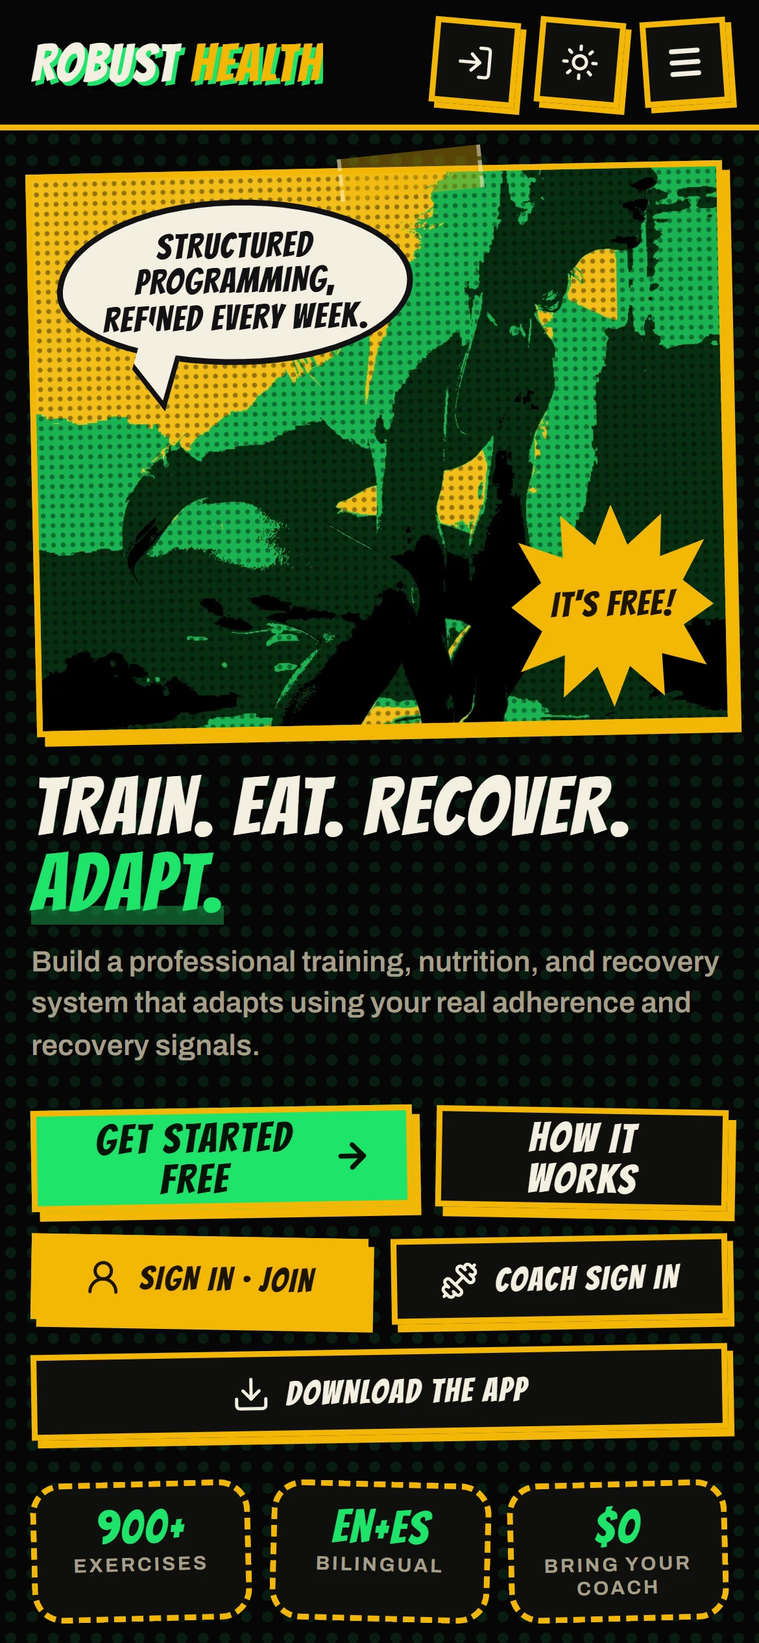
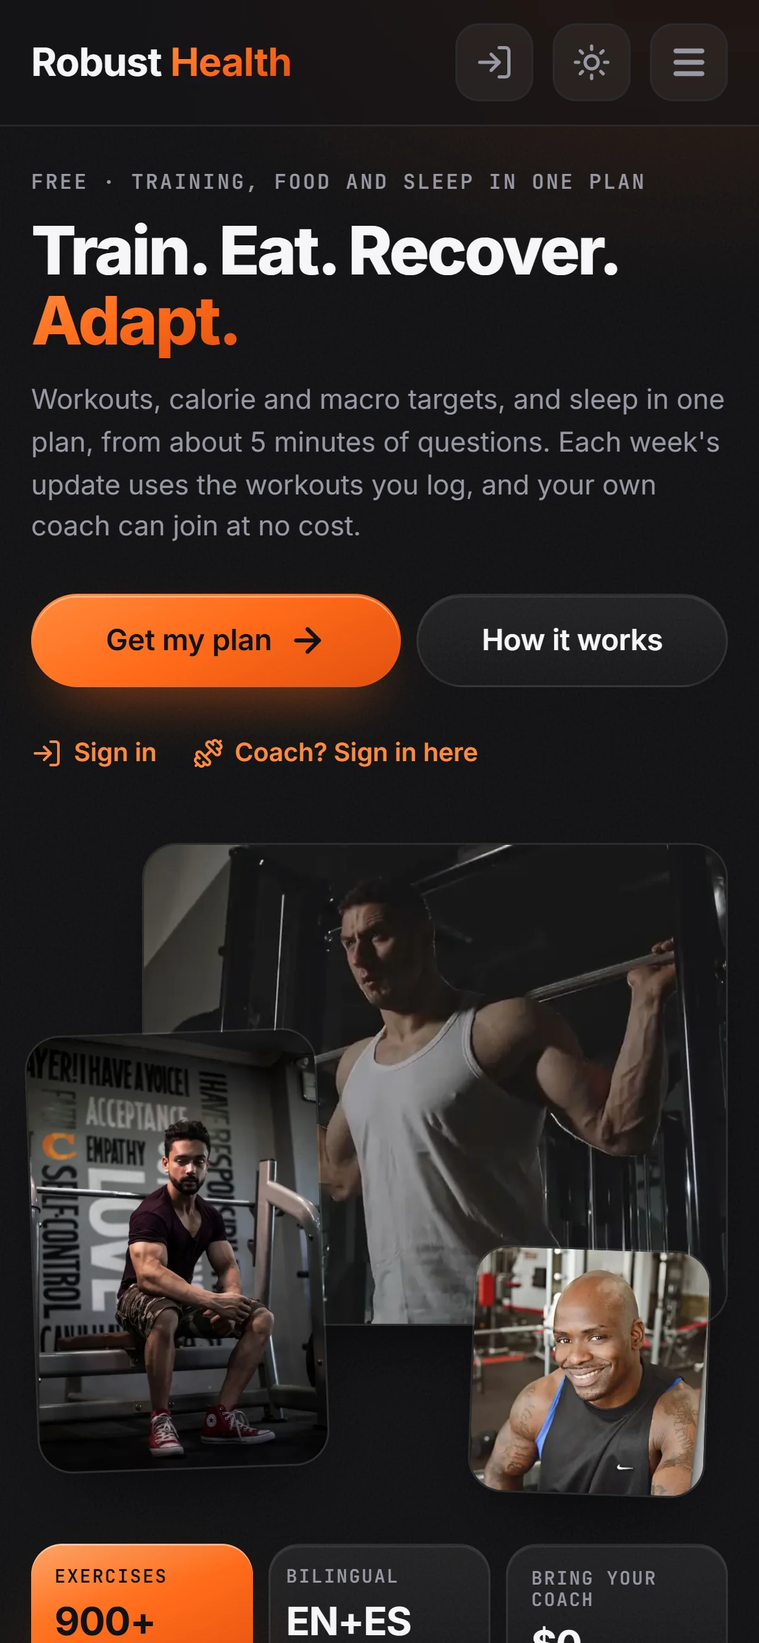
Retake Robust Health's captures after its redesign
The app moved from the comic yellow-and-green skin to dark glass with an
orange accent, so every Robust Health image showed a design that is gone.
All sixteen are retaken from app.robusthealth.in on 2026-11-03, signed
out, at 1440x900 2x (phones at 390 3x for the hero, 360 2x for the pair),
WebP q90 with no metadata.

Kept where the content maps one to one: hero, mobile, the quick-start
cover, onboarding, start, intake. The Index frames now walk the landing
page's second screen, How It Works, onboarding, its first questions
(nothing typed), a quick-start plan and the Spanish landing page.

The account screens (member dashboard, a coach's client plan, the week
one/two table, two Android screens) are replaced by signed-out product
views: the quick-start plan carries targets, days, sets and RPE without
an account, and the sign-in page shows the providers the engineering
section names. The local app's environment points at the production
database, so seed logins were not used. Alt text, labels and captions
describe the new frames; the pair explanations say where the example
values come from.

CLAUDE.md records the round and one capture rule: use a guest browser,
since a headless Edge profile here filled the sign-in form with saved
credentials.

diff --git a/lib/content.ts b/lib/content.ts
@@ -276,69 +276,70 @@ export const content: SiteContent = {
         src: "/media/robust-health-hero.webp",
         width: 2880,
         height: 1800,
-        alt: "Robust Health's landing page, set like a comic: “Train. Eat. Recover. Adapt.” in heavy italic capitals, buttons to get started, see how it works and sign in as a member or as a coach, three counters, and a halftone photograph of an athlete under a speech bubble reading “Structured programming, refined every week.”",
+        alt: "Robust Health's landing page: “Train. Eat. Recover. Adapt.” in large white type, Adapt in orange, over a dimmed photograph of a woman training; a line on workouts, calorie and macro targets and sleep from about five minutes of questions; Get my plan and How it works buttons and sign-in links for members and coaches; and a row of glass panels — workouts, food targets, sleep goal, changes weekly, and 900+ exercises, EN+ES and $0 to bring your coach.",
       },
       heroMobile: {
         src: "/media/robust-health-mobile.webp",
         width: 1170,
         height: 2532,
-        alt: "Robust Health on a phone: the halftone photograph and its speech bubble first, then “Train. Eat. Recover. Adapt.”, buttons to get started, see how it works, sign in, sign in as a coach and download the app, and three counters.",
+        alt: "Robust Health on a phone: “Train. Eat. Recover. Adapt.”, the line on workouts, targets and sleep, Get my plan and How it works buttons, sign-in links for members and coaches, three overlapping gym photographs, and the first counters — 900+ exercises and EN+ES.",
       },
       // The product, not the landing page: the Index shows the app rather
       // than its marketing photography. The quick-start catalogue, signed
-      // out, on 2026-10-21; the age, height and weight are the page's own
-      // defaults. It replaced a dashboard capture from the earlier design.
+      // out, on 2026-11-03; the age, height and weight are the page's own
+      // defaults.
       cover: {
         src: "/media/robust-health-live-programmes.webp",
         width: 2880,
         height: 1800,
-        alt: "Robust Health's quick start, “Train like a legend, starting today”: a Your numbers panel of sex, age, height, weight and activity with a maintenance estimate of about 2,551 kcal a day from the Mifflin-St Jeor equation, a search box, filters for training days and experience, and the first programme cards — Krissy Cela Glute Days, German Volume Training and DoggCrapp Training.",
+        alt: "Robust Health's quick start, “Start from a known programme”: 23 published programmes, a Your numbers panel of sex, age, height, weight and activity with a maintenance estimate of about 2,551 kcal a day from the Mifflin-St Jeor equation, a search box, filters for training days and experience, and the first programme cards — Krissy Cela Glute Days, German Volume Training and DoggCrapp Training.",
       },
-      // Taken from the live site on 2026-10-21, signed out: the How It Works
-      // page walks the weekly loop through the product's own panels, then
-      // onboarding's first screen. The account screens are in the case study.
+      // Taken from the live site on 2026-11-03, signed out, after the
+      // redesign: the landing page's second screen, How It Works, onboarding
+      // and its first questions (nothing typed), a quick-start plan, and the
+      // landing page in Spanish. The account screens are not shown.
       captures: [
         {
-          src: "/media/robust-health-live-plans.webp",
+          src: "/media/robust-health-live-inside.webp",
           width: 2880,
           height: 1800,
-          label: "Four ways in",
-          alt: "From the How It Works page: “Your plan gets written. Four ways in.” beside a panel of the four — written by a coach, imported from a document, generated then edited, started from a known split — with the loop's six steps down the left, Intake to Adjust, at Build.",
+          label: "What's inside",
+          alt: "The landing page's second screen, “For lifters, powerlifters and their coaches.”: three photographs, each under a panel from the product — week four's upper-body day, a back squat set logged at RPE 7.5, a coach's board of twelve clients — then four notes: plates from your kitchen and budget, sets logged with no signal, next week built from your logs, English and Spanish.",
         },
         {
-          src: "/media/robust-health-live-week.webp",
+          src: "/media/robust-health-live-how.webp",
           width: 2880,
           height: 1800,
-          label: "The week",
-          alt: "“Monday already knows what it is for”: a week of upper-body, lower-body and rest days, each with its exercise count and length, above calorie, protein and sleep targets.",
-        },
-        {
-          src: "/media/robust-health-live-session.webp",
-          width: 2880,
-          height: 1800,
-          label: "The session",
-          alt: "“Log it while you are still holding the bar”: today's upper-body session at three of six, bench press and barbell rows ticked off and the overhead press's rest timer running.",
-        },
-        {
-          src: "/media/robust-health-live-coach.webp",
-          width: 2880,
-          height: 1800,
-          label: "The coach's view",
-          alt: "“Your coach sees the week you actually had”: a coach's board of twelve clients, a bar chart of body weight, sessions and calories, and one week's sessions, last log and energy check-in.",
-        },
-        {
-          src: "/media/robust-health-live-next.webp",
-          width: 2880,
-          height: 1800,
-          label: "Next week",
-          alt: "“Next week is a reply to this one”: a notice that week five is ready, the press going up 2.5 kg after a good week, above tabs for weeks five back to two.",
+          label: "How it works",
+          alt: "The How It Works page, “A few answers in, a plan that keeps up.”, in three steps: an intake of goal and training days; this week's upper-body session beside 2,140 kcal, 160 g of protein and an eight-hour sleep target; and a notice that week five is ready, the press up 2.5 kg and Thursday a rest day. Below, a line for members training with a coach.",
         },
         {
           src: "/media/robust-health-live-onboarding.webp",
           width: 2880,
           height: 1800,
           label: "Getting started",
-          alt: "Onboarding: “Build a plan that fits your real life” beside a halftone gym photograph, then two ways to start — a personalised plan, recommended, in about three to five minutes, or a quick start from proven programmes.",
+          alt: "Onboarding: “Your plan, built around your week” beside two ways to start — personalised, recommended, in about three to five minutes, or a quick start from a published programme, ready right away.",
+        },
+        {
+          src: "/media/robust-health-live-questions.webp",
+          width: 2880,
+          height: 1800,
+          label: "The questions",
+          alt: "The personalised questionnaire's first step, body stats: empty name fields, age, sex, height and weight at the page's defaults, a BMI reading, and optional body fat and body type — between the four steps on the left and a running summary on the right of about 2,051 kcal a day, an upper/lower split four days a week and a full gym.",
+        },
+        {
+          src: "/media/robust-health-live-plan.webp",
+          width: 2880,
+          height: 1800,
+          label: "A quick-start plan",
+          alt: "A quick-start preview of German Volume Training: six days a week, about 72 minutes a session, 3,187 kcal and 165 g of protein a day, and a note that with no details entered the calorie, macro and water numbers are for a reference adult of 75 kg, 175 cm and 24 years, above the top of the daily targets and the week's workouts.",
+        },
+        {
+          src: "/media/robust-health-live-spanish.webp",
+          width: 2880,
+          height: 1800,
+          label: "In Spanish",
+          alt: "The landing page in Spanish: “Entrena. Come. Recupérate. Adáptate.”, with the same buttons, panels and counters.",
         },
       ],
       caseStudy: {
@@ -352,11 +353,11 @@ export const content: SiteContent = {
             media: {
               kind: "image",
               src: "/media/robust-health-start.webp",
-              width: 1639,
-              height: 1105,
-              alt: "Robust Health's onboarding over a blurred gym photograph: the headline Build a plan that fits your real life, then a panel asking How would you like to get started? with two cards — Personalised plan, recommended, about three to five minutes, and Quick start, to browse programmes.",
+              width: 2460,
+              height: 970,
+              alt: "Robust Health's onboarding over a dimmed gym photograph: “Your plan, built around your week” and a line on three to five minutes of questions, beside a panel asking How do you want to start? with two choices — Personalised, recommended, about three to five minutes, and Quick start, ready right away.",
               caption:
-                "Two ways in: a three-to-five minute questionnaire that generates a tailored first week, or a ready-made programme with optional body details for nutrition targets. Switching between them keeps whatever has already been entered.",
+                "Two ways in: three to five minutes of questions that build a first week around the member's goal, days, gear and injuries, or a published programme to browse now, with optional body details for calorie targets. Switching between them keeps whatever has already been typed.",
             },
           },
           {
@@ -367,21 +368,23 @@ export const content: SiteContent = {
             media: {
               kind: "pair",
               title: "What it asks, and what changed",
-              body: "The intake asks for a goal, the days a member can train and the constraints around them: equipment, diet, an injury. Week two is then laid against week one, line by line. Here the macros held, the split moved to an imported programme, and a sixth training day was added.",
+              // Both panels are from the How It Works page, which walks the
+              // loop with example values rather than a member's own.
+              body: "The intake asks for a goal and the days a member can train, then the gear, the food and any injury around them. Once a week is logged, the weekly update writes the next one and says what moved. The How It Works page walks it through: the press goes up 2.5 kg, and Thursday becomes a rest day.",
               images: [
                 {
                   src: "/media/robust-health-intake.webp",
-                  width: 568,
-                  height: 442,
+                  width: 724,
+                  height: 462,
                   label: "The intake",
-                  alt: "An intake card: Build strength selected from three goals, three training days selected from two to five, and three constraint chips — Full gym, No dairy, Left shoulder.",
+                  alt: "An intake panel: What are you training for? with Build strength selected over Lose fat and General fitness, and Days you can train with three selected from two to five.",
                 },
                 {
-                  src: "/media/robust-health-weeks.webp",
-                  width: 792,
-                  height: 668,
-                  label: "Week one against week two",
-                  alt: "A table of week one against week two: calories, protein, carbs and fat unchanged at 2851 kcal, 155 g, 416 g and 63 g; the training split changed from Push, Pull, Legs to an imported programme; days per week up from five to six; the sleep target unchanged at seven hours.",
+                  src: "/media/robust-health-week-five.webp",
+                  width: 728,
+                  height: 466,
+                  label: "The weekly update",
+                  alt: "A Week five panel: a notice that week five is ready, built from last week's logs — the press up 2.5 kg and Thursday a rest day — above tabs for weeks five back to two.",
                 },
               ],
             },
@@ -398,12 +401,14 @@ export const content: SiteContent = {
             ],
             media: {
               kind: "image",
-              src: "/media/robust-health-member.webp",
-              width: 1612,
-              height: 690,
-              alt: "Robust Health's member dashboard greeting Good morning, Gogol above two wide cards: an RPE-autoregulated powerlifting block with an Open your block button, and a standalone one-day plan with an Access your plan button.",
+              // A quick-start plan, signed out: the body details are the
+              // page's defaults, not a member's.
+              src: "/media/robust-health-plan-week.webp",
+              width: 2880,
+              height: 1644,
+              alt: "Further down a quick-start plan for German Volume Training: daily targets of 3,187 kcal, 165 g protein, 463 g carbs and 75 g fat against a 2,551 kcal TDEE, 3.6 litres of water and a meal timeline, beside the workouts — day one chest and back, day two legs and abs, each with its warm-up and exercises at ten sets of ten, 90 seconds' rest and RPE 8.",
               caption:
-                "Inside a member's account: the powerlifting block, where the RPE of every set is logged as it is lifted and the next load is recalculated from it, and a standalone one-day plan saved beside it.",
+                "A published programme as data: each day's warm-up, then every exercise with its sets, reps, rest and target RPE, beside calorie, macro and water targets for the member's height, weight and age — a reference adult's until they are entered. A quick-start plan like this one opens without an account.",
             },
           },
           {
@@ -417,17 +422,16 @@ export const content: SiteContent = {
               "Members, trainers and admins each get their own portal and their own signed session, and the more a session can reach, the sooner it expires. Requests pass a nonce-based content security policy, per-IP rate limiting on Upstash Redis with an in-memory fallback, and double-submit CSRF checks, and authorisation is checked per route.",
               "Sign-in runs through Supabase with OAuth for Google, GitHub and Discord, plus one-time email codes sent through Resend. Web push carries reminders.",
             ],
-            // Cropped below the client's email, age, height, weight and body
-            // fat, and the signed-in trainer's name: personal details rather
-            // than evidence, and the trainer's name is someone else's.
+            // Signed out, in a browser with no saved logins: both fields show
+            // only their placeholders.
             media: {
               kind: "image",
-              src: "/media/robust-health-trainer.webp",
-              width: 1730,
-              height: 775,
-              alt: "Nutrition targets as four rings — 2851 kcal, 155 g protein, 416 g carbs, 63 g fat — above a notes panel of six points on surplus, carb timing, protein distribution and micronutrients, and a workout plan of six day chips, D1 Legs mainly to D6 Arms, from an imported programme.",
+              src: "/media/robust-health-sign-in.webp",
+              width: 2440,
+              height: 1590,
+              alt: "The member sign-in page: “Sign in to your plans” beside a panel with Sign in and New here tabs, Sign in with Google, Discord and GitHub, an email and password form with a Cloudflare human check and a Keep me signed in switch, and a link to email a code instead.",
               caption:
-                "The trainer's side of one client's active plan: calorie and macro targets, the reasoning behind them in notes, and a six-day programme imported from a file.",
+                "The member sign-in: Google, Discord or GitHub, a password, or a one-time code by email, behind a human check. Coaches sign in to their own portal from a separate page.",
             },
           },
           {
@@ -435,27 +439,26 @@ export const content: SiteContent = {
             body: [
               "Live at app.robusthealth.in. Load time is the measured part: next/image compression and route-level code splitting cut Lighthouse load time by about half on web and two thirds on mobile.",
             ],
-            // Android captures, cropped below the status bar's notification
-            // icons; the activity card is taken alone, without the programme
-            // summary above it.
+            // The same quick-start plan at 360 pixels wide, signed out; the
+            // reference body is the page's default.
             media: {
               kind: "pair",
               title: "On a phone",
-              body: "A workout runs one exercise at a time, each marked off as it is done, and a finished session joins the dashboard's recent activity with the exercises completed and the minutes it took — the record each next week is revised against.",
+              body: "On a phone the plan splits into Workout, Fuel and Recovery, one day at a time. Each exercise carries its sets, rest and target RPE and a box to tick off as it is done.",
               images: [
                 {
-                  src: "/media/robust-health-phone-workout.webp",
+                  src: "/media/robust-health-phone-plan.webp",
                   width: 720,
-                  height: 1456,
-                  label: "Mid-workout",
-                  alt: "Robust Health's workout screen on a phone: Day 4, Mobility Style, two of three exercises done, a placeholder for the exercise video, and the third exercise — hanging leg raises with cable crunches, three sets of fifteen — marked completed, above Previous and Finish Workout buttons.",
+                  height: 1600,
+                  label: "The plan",
+                  alt: "A quick-start preview of German Volume Training on a phone: six days a week, about 72 minutes, 3,187 kcal; a note that the numbers are for a reference body of 75 kg, 175 cm and 24 years; Workout, Fuel and Recovery tabs; day one, chest and back, with its three warm-up moves folded away; and a Sign in to save button.",
                 },
                 {
-                  src: "/media/robust-health-phone-activity.webp",
+                  src: "/media/robust-health-phone-day.webp",
                   width: 720,
-                  height: 1022,
-                  label: "Recent activity",
-                  alt: "The phone dashboard's Recent Activity: five sessions, each with its programme day, its date and the exercises completed, two with their length in minutes, above the app's bottom bar — Dashboard, Programme, Progress, Inbox and More.",
+                  height: 1600,
+                  label: "Day one",
+                  alt: "Day one's exercises on a phone under the Workout tab: barbell bench press and pull-ups at ten sets of ten, incline dumbbell flyes and one-arm dumbbell rows at three sets of ten to twelve, each at 90 seconds' rest and RPE 8, with a box to tick and a play button.",
                 },
               ],
             },
@@ -975,7 +978,7 @@ export const content: SiteContent = {
       destinations: { live: "Live site", source: "Repository", certificate: "Certificate" },
       captures: {
         heading: "From the live sites",
-        note: "Captured October 2026, signed out",
+        note: "Captured October and November 2026, signed out",
         count: "{count} frames",
       },
     },

diff --git a/lib/blur.ts b/lib/blur.ts
@@ -42,20 +42,20 @@ export type BlurredMedia =
   | "/media/northeastern-window.webp"
   | "/media/robust-health-hero.webp"
   | "/media/robust-health-intake.webp"
-  | "/media/robust-health-live-coach.webp"
-  | "/media/robust-health-live-next.webp"
+  | "/media/robust-health-live-how.webp"
+  | "/media/robust-health-live-inside.webp"
   | "/media/robust-health-live-onboarding.webp"
-  | "/media/robust-health-live-plans.webp"
+  | "/media/robust-health-live-plan.webp"
   | "/media/robust-health-live-programmes.webp"
-  | "/media/robust-health-live-session.webp"
-  | "/media/robust-health-live-week.webp"
-  | "/media/robust-health-member.webp"
+  | "/media/robust-health-live-questions.webp"
+  | "/media/robust-health-live-spanish.webp"
   | "/media/robust-health-mobile.webp"
-  | "/media/robust-health-phone-activity.webp"
-  | "/media/robust-health-phone-workout.webp"
+  | "/media/robust-health-phone-day.webp"
+  | "/media/robust-health-phone-plan.webp"
+  | "/media/robust-health-plan-week.webp"
+  | "/media/robust-health-sign-in.webp"
   | "/media/robust-health-start.webp"
-  | "/media/robust-health-trainer.webp"
-  | "/media/robust-health-weeks.webp";
+  | "/media/robust-health-week-five.webp";
 
 export const BLUR_PLACEHOLDERS: Readonly<Record<BlurredMedia, string>> = {
   "/media/about-smile.webp":
@@ -113,35 +113,35 @@ export const BLUR_PLACEHOLDERS: Readonly<Record<BlurredMedia, string>> = {
   "/media/northeastern-window.webp":
[1 lines of base64/hex data omitted]
   "/media/robust-health-hero.webp":
[2 lines of base64/hex data omitted]
   "/media/robust-health-intake.webp":
[1 lines of base64/hex data omitted]
-  "/media/robust-health-live-coach.webp":
[1 lines of base64/hex data omitted]
-  "/media/robust-health-live-next.webp":
[2 lines of base64/hex data omitted]
+  "/media/robust-health-live-how.webp":
[1 lines of base64/hex data omitted]
+  "/media/robust-health-live-inside.webp":
[1 lines of base64/hex data omitted]
   "/media/robust-health-live-onboarding.webp":
[1 lines of base64/hex data omitted]
-  "/media/robust-health-live-plans.webp":
[2 lines of base64/hex data omitted]
+  "/media/robust-health-live-plan.webp":
[1 lines of base64/hex data omitted]
   "/media/robust-health-live-programmes.webp":
[1 lines of base64/hex data omitted]
-  "/media/robust-health-live-session.webp":
[1 lines of base64/hex data omitted]
-  "/media/robust-health-live-week.webp":
[1 lines of base64/hex data omitted]
-  "/media/robust-health-member.webp":
[2 lines of base64/hex data omitted]
+  "/media/robust-health-live-questions.webp":
[1 lines of base64/hex data omitted]
+  "/media/robust-health-live-spanish.webp":
[1 lines of base64/hex data omitted]
   "/media/robust-health-mobile.webp":
[1 lines of base64/hex data omitted]
-  "/media/robust-health-phone-activity.webp":
[1 lines of base64/hex data omitted]
-  "/media/robust-health-phone-workout.webp":
[2 lines of base64/hex data omitted]
+  "/media/robust-health-phone-day.webp":
[1 lines of base64/hex data omitted]
+  "/media/robust-health-phone-plan.webp":
[1 lines of base64/hex data omitted]
+  "/media/robust-health-plan-week.webp":
[1 lines of base64/hex data omitted]
+  "/media/robust-health-sign-in.webp":
[1 lines of base64/hex data omitted]
   "/media/robust-health-start.webp":
[1 lines of base64/hex data omitted]
-  "/media/robust-health-trainer.webp":
[1 lines of base64/hex data omitted]
-  "/media/robust-health-weeks.webp":
[2 lines of base64/hex data omitted]
+  "/media/robust-health-week-five.webp":
[1 lines of base64/hex data omitted]
 };

diff --git a/CLAUDE.md b/CLAUDE.md
@@ -461,9 +461,21 @@ one-off values.
   share 16:10 and nothing is cropped to line up. They are signed-out public
   pages, walked no further than a form's first choices — nothing typed,
   nothing submitted — so Lagna Atelier's are its landing screen's themes
-  and languages, and Robust Health's come from its How It Works page. Taken
-  October 21 2026; the slider's heroes are from the same round. Retake both
-  together, so the note under the heading stays true.
+  and languages, and Robust Health's walk its landing page, How It Works,
+  onboarding, a quick-start plan and the Spanish landing page. Lagna
+  Atelier's and the clinic's were taken October 21 2026, Robust Health's on
+  November 3 2026 after its redesign; each project's slider hero is from
+  the same round as its frames. Retake both together, and keep the note
+  under the heading true.
+- **Capture in a guest browser.** A headless Edge profile on his machine
+  inherits his Windows sign-in and filled the Robust Health sign-in forms
+  with his saved email and password, unasked. `--guest` stops it; check
+  every form field in the frame before keeping a capture.
+- **Robust Health's case study shows no account screens since its
+  redesign.** The quick-start plan opens without one and carries the
+  product (targets, days, sets, RPE), so the in-product plates and the
+  phone pair come from it; the local app's environment points at the
+  production database, so seed logins were not used.
 - **An entry without a case study lists where it leads** under its name, one
   small section per link — Meta Database Engineer's certificate and its
   repository side by side — in both layouts. The name still opens the first
